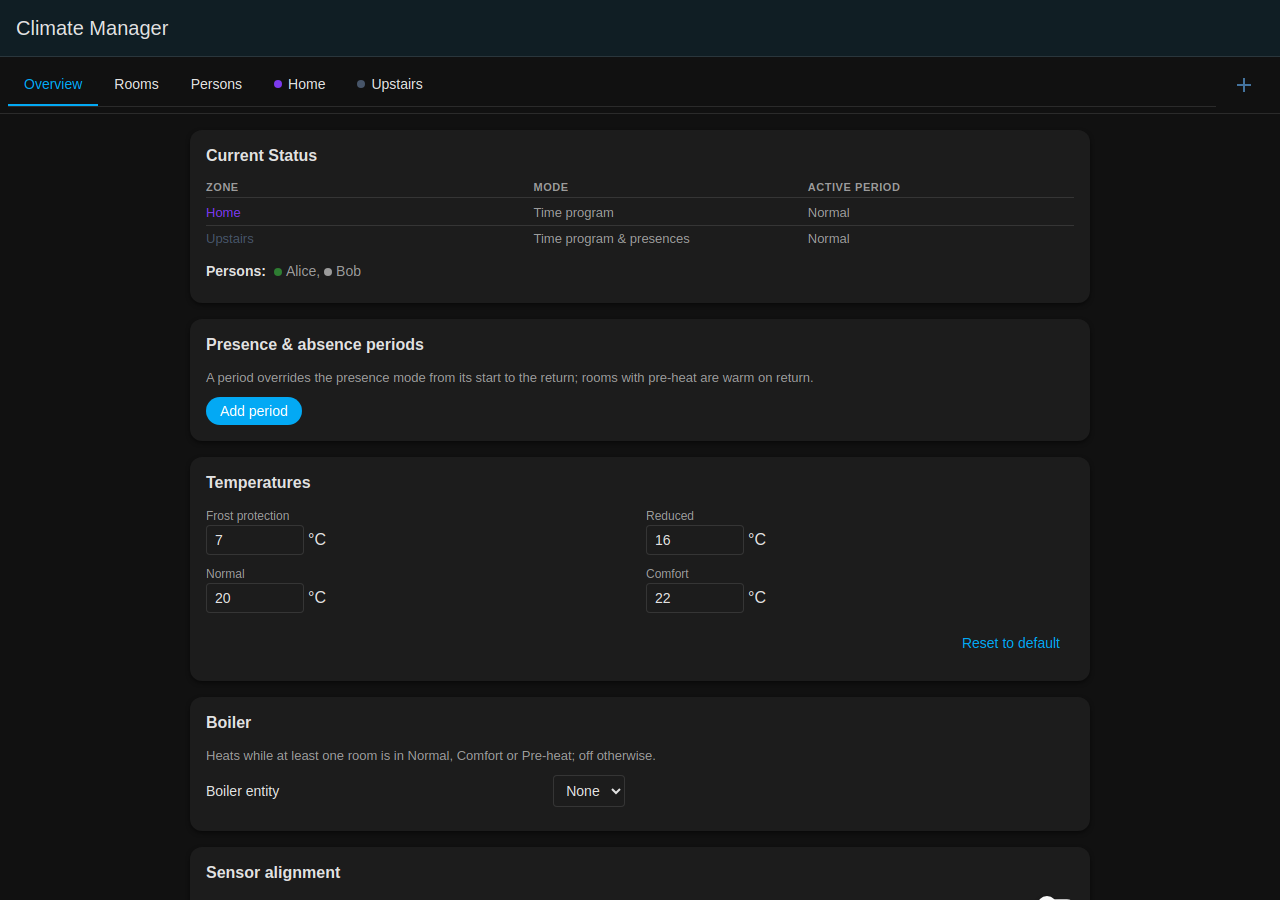
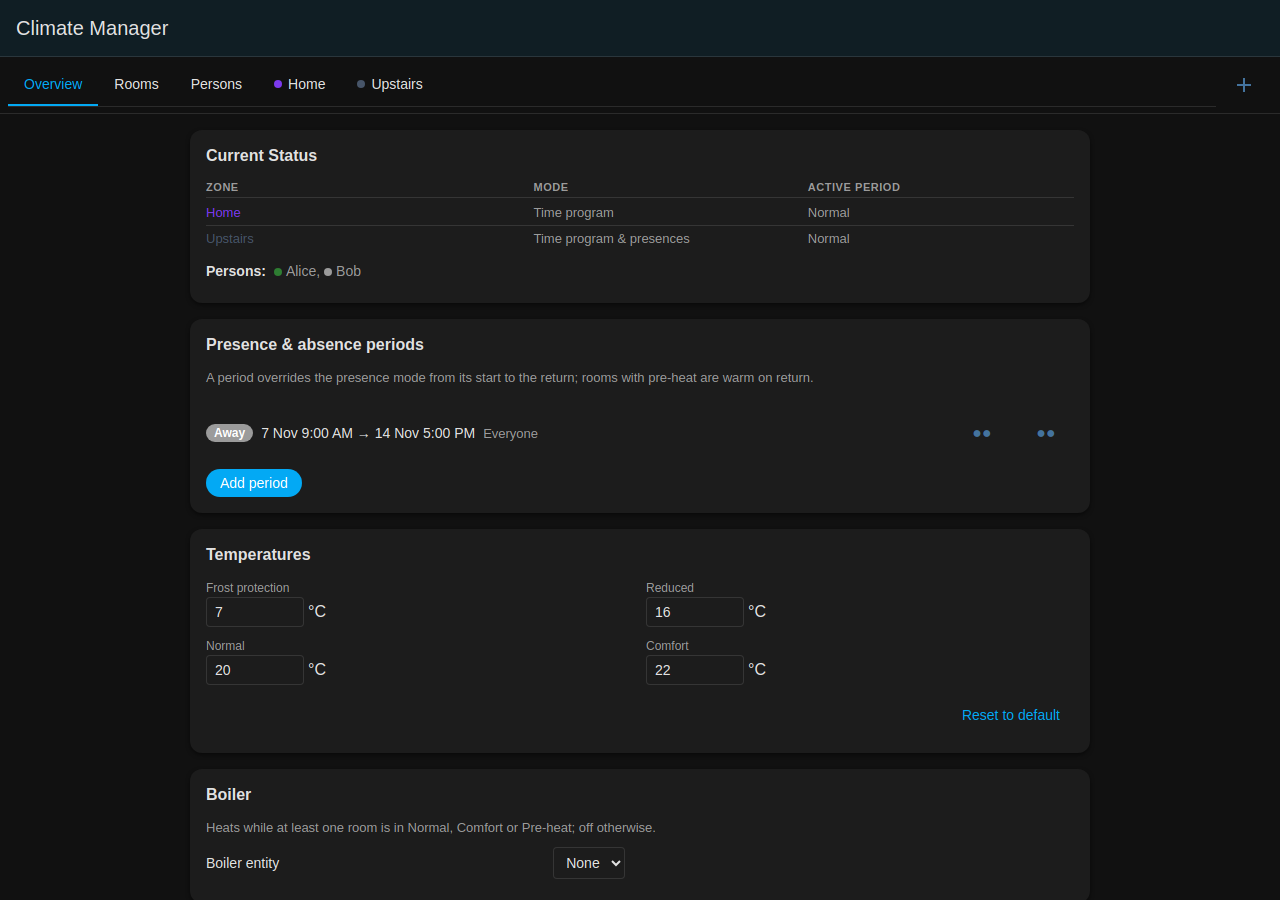
docs(readme): presence & absence periods
A Features bullet, a paragraph in Presence & scheduling (type, start and
return, persons or everyone, household absence and Time program zones,
pre-heat for the return, overlaps, pruning) and a Global settings line.
The root harness mock gets a household holiday so the Overview capture
shows a filled card.

diff --git a/docs/test-harness.html b/docs/test-harness.html
@@ -66,6 +66,14 @@
     { start: '23:30', state: 'absent' },
   ];
 
+  /** Local "YYYY-MM-DDTHH:MM" of the day `days` from today at `time`. */
+  const localDay = (days, time) => {
+    const d = new Date();
+    d.setDate(d.getDate() + days);
+    const pad = (n) => String(n).padStart(2, '0');
+    return `${d.getFullYear()}-${pad(d.getMonth() + 1)}-${pad(d.getDate())}T${time}`;
+  };
+
   const CONFIG = {
     period_temperatures: { frost_protection: 7, reduced: 16, normal: 20, comfort: 22 },
     // Phase 14 (D-11): Default Zone is an object (name/mode/time_program),
@@ -85,6 +93,10 @@
       'person.bob':   { mode: 'ha',        room_ids: ['living_room', 'kitchen'] },
     },
     climate_entities: ['climate.bedroom_trv', 'climate.kitchen_trv', 'climate.living_room_trv'],
+    // A household holiday, dated from the wall clock so it stays ahead.
+    presence_periods: [
+      { id: 'holiday', kind: 'absent', start: localDay(5, '09:00'), end: localDay(12, '17:00') },
+    ],
   };
 
   const STATUS = {

diff --git a/README.md b/README.md
@@ -79,6 +79,9 @@ a room to appear in the panel, two conditions must be met:
   presences_ mode the room only heats when someone is home
 - **Presence tracking modes**: Scheduled (weekly timetable), HA home tracking,
   Force Present, Force Absent
+- **Presence & absence periods**: Dated absences (holidays, a business trip) or
+  presences (a day off, a guest) override the presence modes, and pre-heat has
+  the house warm on return
 - **Gap-fill logic**: When a person is present, Reduced/Frost periods sandwiched
   between Normal/Comfort periods are held at the preceding Normal/Comfort
   temperature
@@ -217,6 +220,21 @@ When a zone is in _Time program & presences_ mode:
 If present all day: room heats 06:00–22:00, holding Normal during the
 09:00–17:00 Reduced gap. If absent: room stays at Reduced all day.
 
+**Presence & absence periods** (Overview tab) cover dates the weekly schedule
+cannot know about. Add a period with its **Type** (Absence or Presence), its
+**Start** and its **Return**:
+
+- For its dates the period overrides the presence mode of the persons it covers,
+  whatever their mode; at the return the usual mode takes over.
+- Pick the **Persons** it covers, or leave **Everyone**: a household absence
+  also sets the _Time program_ zones back to Reduced while the house is empty.
+  The person selection is offered once a zone is in _Time program & presences_;
+  otherwise a period covers everyone.
+- Pre-heat aims at the return: rooms with a max lead time are warm when the
+  household walks in.
+- Two periods covering the same person cannot overlap. Ended periods disappear
+  on their own.
+
 <picture>
   <source media="(prefers-color-scheme: dark)"
           srcset="docs/screenshots/dark/persons.png">
@@ -289,6 +307,8 @@ No YAML editing required.
        alt="Global Settings tab">
 </picture>
 
+- Presence & absence periods: dated absences or presences, for everyone or some
+  persons (see [Presence & scheduling](#presence--scheduling))
 - Period temperatures (Normal, Comfort, Reduced, Frost Protection)
 - Default zone name
 - Boiler: entity to control, its heating / stopped modes (climate entity) and
